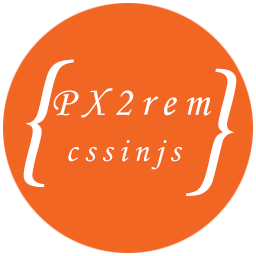
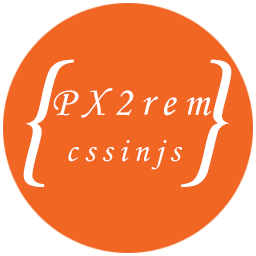
1.开发者更改插件配置后自动更新计算状态，开发者无需重启编辑器 2.更新插件图标

Changed region(s): [[0.6875, 0.2188, 0.9375, 0.7812]]

diff --git a/src/provider.ts b/src/provider.ts
@@ -1,14 +1,12 @@
 import { Range, TextDocument, Position, CompletionItemKind, CompletionItem, CompletionItemProvider, ProviderResult } from 'vscode';
-
+import { CONFIG } from './config';
 
 export class PxtoRemProvider implements CompletionItemProvider {
     private prefixExp: RegExp = /^[+-]?([0-9]*[.])?[0-9]+(p|px|$)$/;
     private regexExp: RegExp = /[+-]?[\w\d.]+$/;
     private numExp: RegExp = /[+-]?\d*[.]?\d*/;
 
-    constructor(private options: any) {
-      this.options = options;
-    }
+    constructor() {}
 
     provideCompletionItems(
       document: TextDocument,
@@ -31,7 +29,7 @@ export class PxtoRemProvider implements CompletionItemProvider {
   
       const match = line.match(this.regexExp);
       if (match && this.prefixExp.test(match[0])) {
-        const options = this.options;
+        const options = CONFIG;
         const designSize = options.designSize;
         const keepFloat = options.keepFloat;
         const splitNumber = options.splitNumber;

diff --git a/src/extension.ts b/src/extension.ts
@@ -1,12 +1,17 @@
 import * as vscode from 'vscode';
 import { PxtoRemProvider } from './provider';
+import { getConfig } from './config';
 
 export function activate(context: vscode.ExtensionContext) {
   const LANS: Array<string> = ['javascript', 'javascriptreact', 'typescriptreact'];
-  const options = vscode.workspace.getConfiguration('cssinjsPx2rem');
+  getConfig();
   LANS.forEach(lan => {
-    const pxtoRemProvider = new PxtoRemProvider(options);
+    const pxtoRemProvider = new PxtoRemProvider();
     context.subscriptions.push(vscode.languages.registerCompletionItemProvider(lan, pxtoRemProvider));
+  });
+
+  vscode.workspace.onDidChangeConfiguration(() => {
+    getConfig();
   });
 }
 

diff --git a/src/config.ts b/src/config.ts
@@ -1,0 +1,7 @@
+import { workspace, WorkspaceConfiguration } from "vscode";
+
+export let CONFIG: WorkspaceConfiguration;
+
+export const getConfig = () => {
+  CONFIG = workspace.getConfiguration('cssinjsPx2rem');
+};

diff --git a/CHANGELOG.md b/CHANGELOG.md
@@ -1,9 +1,11 @@
 # Change Log
 
-All notable changes to the "cssinjs-px2rem" extension will be documented in this file.
+> V0.0.1
+  1. 测试版本
 
-Check [Keep a Changelog](http://keepachangelog.com/) for recommendations on how to structure this file.
-
+> V0.0.2
+  1. `更新` 开发者更改插件配置后自动更新计算状态，开发者无需重启编辑器
+  2. `更新` 更新插件图标
 ## [Unreleased]
 
 - Initial release
